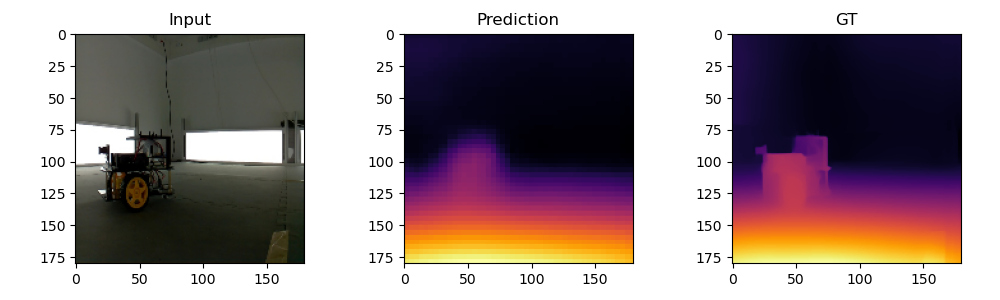
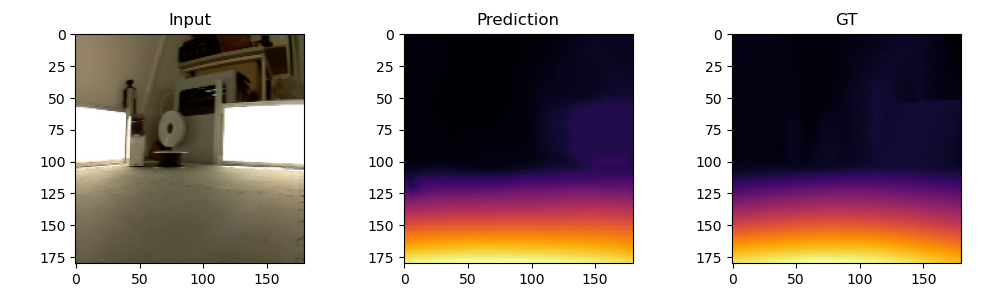
measure time

diff --git a/train.py b/train.py
@@ -3,6 +3,7 @@ import torch.nn as nn
 from torch.utils.data import DataLoader,random_split
 from torch.utils.tensorboard import SummaryWriter
 from tqdm import tqdm
+import time
 
 from dataset import DepthDataset
 from model import ResNetDepth
@@ -66,14 +67,14 @@ def visualize(img, pred, target, epoch):
     plt.savefig(f"./outputs/epoch_{epoch}.png")
     plt.close()
 
-num_epochs = 5
+num_epochs = 3
 
 train_losses = []
 val_losses = []
 
 fixed_img = None
 fixed_depth = None
-
+start_time = time.time()
 for epoch in range(num_epochs):
 
     model.train()
@@ -140,6 +141,8 @@ for epoch in range(num_epochs):
         epoch
     )
     print(f"Epoch {epoch}: Train Loss={train_loss:.4f}, Val Loss={val_loss:.4f}")
+    end_time = time.time()
+    print(f"Total training time: {end_time - start_time:.2f} seconds")
 
 
 
